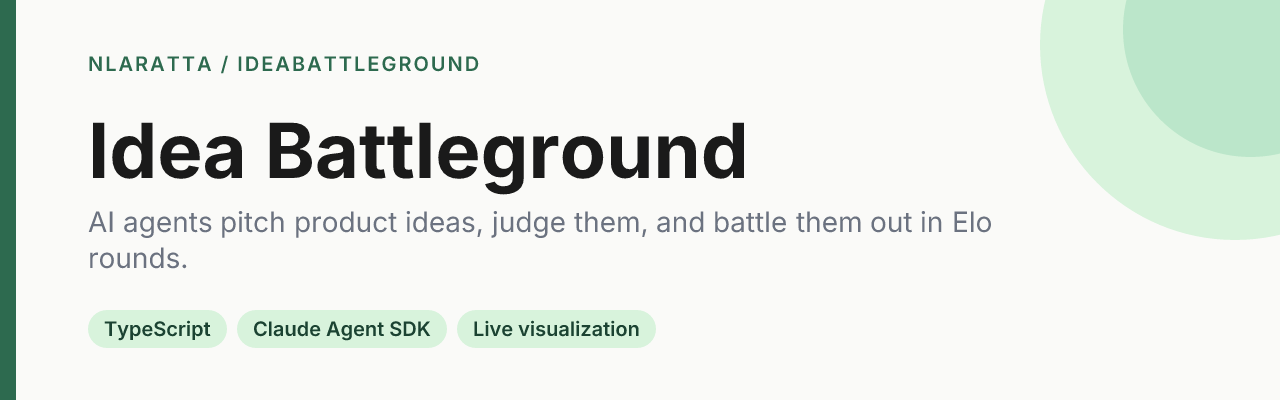
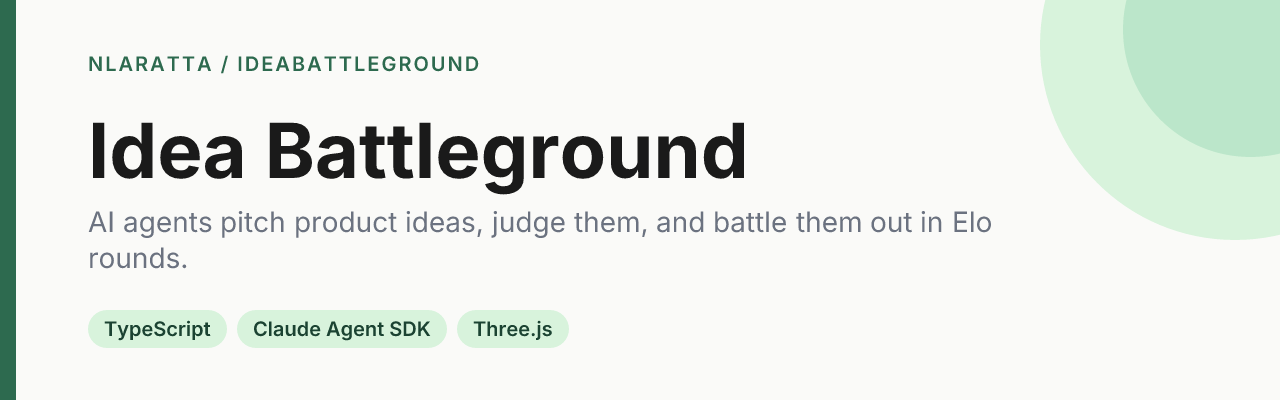
Profile: featured cards, Laratta Labs, grouped project list (generated)

Changed region(s): [[0.3438, 0.75, 0.5312, 0.87]]

diff --git a/README.md b/README.md
@@ -6,66 +6,70 @@ I'm a software engineer in Denver and the founder of [Laratta Labs](https://lara
 
 **[noahlaratta.com](https://noahlaratta.com)** · Studio work lives at **[github.com/larattalabs](https://github.com/larattalabs)**
 
-## Projects
+<!-- projects:start -->
+## Featured
 
 <table>
   <tr>
     <td width="50%" valign="top">
-      <a href="https://github.com/nlaratta/noahlaratta"><img src="brand/out/noahlaratta/card.png" alt="noahlaratta" width="100%"></a>
-      <p align="center"><a href="https://noahlaratta.com">Site</a> · <a href="https://github.com/nlaratta/noahlaratta">Code</a></p>
+      <a href="https://github.com/nlaratta/IdeaBattleGround"><img src="brand/out/IdeaBattleGround/card.png" alt="Idea Battleground" width="100%"></a>
+      <p align="center"><a href="https://github.com/nlaratta/IdeaBattleGround">Code</a></p>
     </td>
     <td width="50%" valign="top">
-      <a href="https://github.com/nlaratta/IdeaBattleGround"><img src="brand/out/IdeaBattleGround/card.png" alt="IdeaBattleGround" width="100%"></a>
-      <p align="center"><a href="https://github.com/nlaratta/IdeaBattleGround">Code</a></p>
+      <a href="https://github.com/nlaratta/ProgressionCompass"><img src="brand/out/ProgressionCompass/card.png" alt="Progression Compass" width="100%"></a>
+      <p align="center"><a href="https://github.com/nlaratta/ProgressionCompass">Code</a></p>
     </td>
   </tr>
   <tr>
+    <td width="50%" valign="top">
+      <a href="https://github.com/nlaratta/apple-hig-mcp"><img src="brand/out/apple-hig-mcp/card.png" alt="Apple HIG MCP" width="100%"></a>
+      <p align="center"><a href="https://github.com/nlaratta/apple-hig-mcp">Code</a></p>
+    </td>
     <td width="50%" valign="top">
       <a href="https://github.com/nlaratta/claude-helpers"><img src="brand/out/claude-helpers/card.png" alt="claude-helpers" width="100%"></a>
       <p align="center"><a href="https://github.com/nlaratta/claude-helpers">Code</a></p>
     </td>
-    <td width="50%" valign="top">
-      <a href="https://github.com/nlaratta/apple-hig-mcp"><img src="brand/out/apple-hig-mcp/card.png" alt="apple-hig-mcp" width="100%"></a>
-      <p align="center"><a href="https://github.com/nlaratta/apple-hig-mcp">Code</a></p>
-    </td>
-  </tr>
-  <tr>
-    <td width="50%" valign="top">
-      <a href="https://github.com/nlaratta/ProgressionCompass"><img src="brand/out/ProgressionCompass/card.png" alt="ProgressionCompass" width="100%"></a>
-      <p align="center"><a href="https://github.com/nlaratta/ProgressionCompass">Code</a></p>
-    </td>
-    <td width="50%" valign="top">
-      <a href="https://github.com/nlaratta/study-guide-generator"><img src="brand/out/study-guide-generator/card.png" alt="study-guide-generator" width="100%"></a>
-      <p align="center"><a href="https://github.com/nlaratta/study-guide-generator">Code</a></p>
-    </td>
-  </tr>
-  <tr>
-    <td width="50%" valign="top">
-      <a href="https://github.com/nlaratta/game-hub"><img src="brand/out/game-hub/card.png" alt="game-hub" width="100%"></a>
-      <p align="center"><a href="https://nlaratta.github.io/game-hub/">Play</a> · <a href="https://github.com/nlaratta/game-hub">Code</a></p>
-    </td>
-    <td width="50%" valign="top">
-      <a href="https://github.com/nlaratta/emoji-clicker"><img src="brand/out/emoji-clicker/card.png" alt="emoji-clicker" width="100%"></a>
-      <p align="center"><a href="https://nlaratta.github.io/emoji-clicker/">Play</a> · <a href="https://github.com/nlaratta/emoji-clicker">Code</a></p>
-    </td>
-  </tr>
-  <tr>
-    <td width="50%" valign="top">
-      <a href="https://github.com/nlaratta/db-tinkering"><img src="brand/out/db-tinkering/card.png" alt="db-tinkering" width="100%"></a>
-      <p align="center"><a href="https://github.com/nlaratta/db-tinkering">Code</a></p>
-    </td>
-    <td width="50%" valign="top">
-      <a href="https://github.com/nlaratta/wordle-solver"><img src="brand/out/wordle-solver/card.png" alt="wordle-solver" width="100%"></a>
-      <p align="center"><a href="https://github.com/nlaratta/wordle-solver">Code</a></p>
-    </td>
-  </tr>
-  <tr>
-    <td width="50%" valign="top">
-      <a href="https://github.com/nlaratta/indicator-bot"><img src="brand/out/indicator-bot/card.png" alt="indicator-bot" width="100%"></a>
-      <p align="center"><a href="https://github.com/nlaratta/indicator-bot">Code</a></p>
-    </td>
-    <td width="50%"></td>
   </tr>
 </table>
 
-<sub>Every repo here follows the same [standards](STANDARDS.md), and its banners are generated from [`brand/`](brand/).</sub>
+## Shipped at Laratta Labs
+
+- **SquadUp**: Social fitness platform: find local workouts, train together, and let hosts get paid. [App Store](https://apps.apple.com/us/app/squadup-lift-more-together/id6745851197) · [supsquadup.com](https://supsquadup.com)
+- **YardPaint**: Photograph your yard, paint zones, and get a photorealistic landscaped preview with the plants to match. [App Store](https://apps.apple.com/us/app/yardpaint/id6781556965) · [yardpaint.app](https://yardpaint.app)
+
+Open source from the studio:
+
+- [**Architect**](https://github.com/larattalabs/architect-mc): Minecraft mod where Claude designs buildings as parametric code you place in your world.
+- [**Local Lab**](https://github.com/larattalabs/local-lab): Desktop playground for comparing local AI models on Apple Silicon side by side.
+- [**Hunyuan3D for Blender on Mac**](https://github.com/larattalabs/blender-hunyuan3d-mac): Textured 3D asset generation inside Blender, entirely on Apple Silicon.
+
+## All projects
+
+**AI & developer tools**
+
+| Project | What it is | Stack |
+|---|---|---|
+| [**Idea Battleground**](https://github.com/nlaratta/IdeaBattleGround) | AI agents pitch product ideas, judge them, and battle them out in Elo rounds. | TypeScript, Claude Agent SDK, Three.js |
+| [**Apple HIG MCP**](https://github.com/nlaratta/apple-hig-mcp) | Search Apple's Human Interface Guidelines from Claude. | TypeScript, MCP, Apple HIG |
+| [**claude-helpers**](https://github.com/nlaratta/claude-helpers) | Skills and scripts for Claude Code, learned the hard way. | Claude Code, Agent Skills, Python |
+| [**Study Guide Generator**](https://github.com/nlaratta/study-guide-generator) | Personalized, step-by-step study plans for any subject. | Flask, OpenAI, JavaScript |
+
+**Games & mods**
+
+| Project | What it is | Stack |
+|---|---|---|
+| [**Progression Compass**](https://github.com/nlaratta/ProgressionCompass) | A Terraria mod that always knows what you should do next. | C#, tModLoader, Terraria |
+| [**Game Hub**](https://github.com/nlaratta/game-hub) · [live](https://nlaratta.github.io/game-hub/) | One page to play my small browser games. | HTML, CSS, GitHub Pages |
+| [**Freakmoji Clicker**](https://github.com/nlaratta/emoji-clicker) · [live](https://nlaratta.github.io/emoji-clicker/) | Click the emoji, buy upgrades, chase a high score. | JavaScript, HTML, CSS |
+| [**Wordle Solver**](https://github.com/nlaratta/wordle-solver) | Solves a Wordle puzzle by filtering on green, yellow and gray feedback. | Java, CLI |
+
+**Web, data & trading**
+
+| Project | What it is | Stack |
+|---|---|---|
+| [**noahlaratta.com**](https://github.com/nlaratta/noahlaratta) · [live](https://noahlaratta.com) | My personal site: projects, experience, and lab write-ups. | Next.js, TypeScript, Tailwind, MDX |
+| [**db-tinkering**](https://github.com/nlaratta/db-tinkering) | SQL and reporting practice on the Open Media Database. | PostgreSQL, Tableau, SQL |
+| [**Indicator Bot**](https://github.com/nlaratta/indicator-bot) | A KuCoin swing-trading bot driven by MACD crossovers. | Python, pandas, KuCoin API |
+<!-- projects:end -->
+
+<sub>Every repo here follows the same [standards](STANDARDS.md). Banners, cards and this list are generated from [`brand/`](brand/).</sub>
